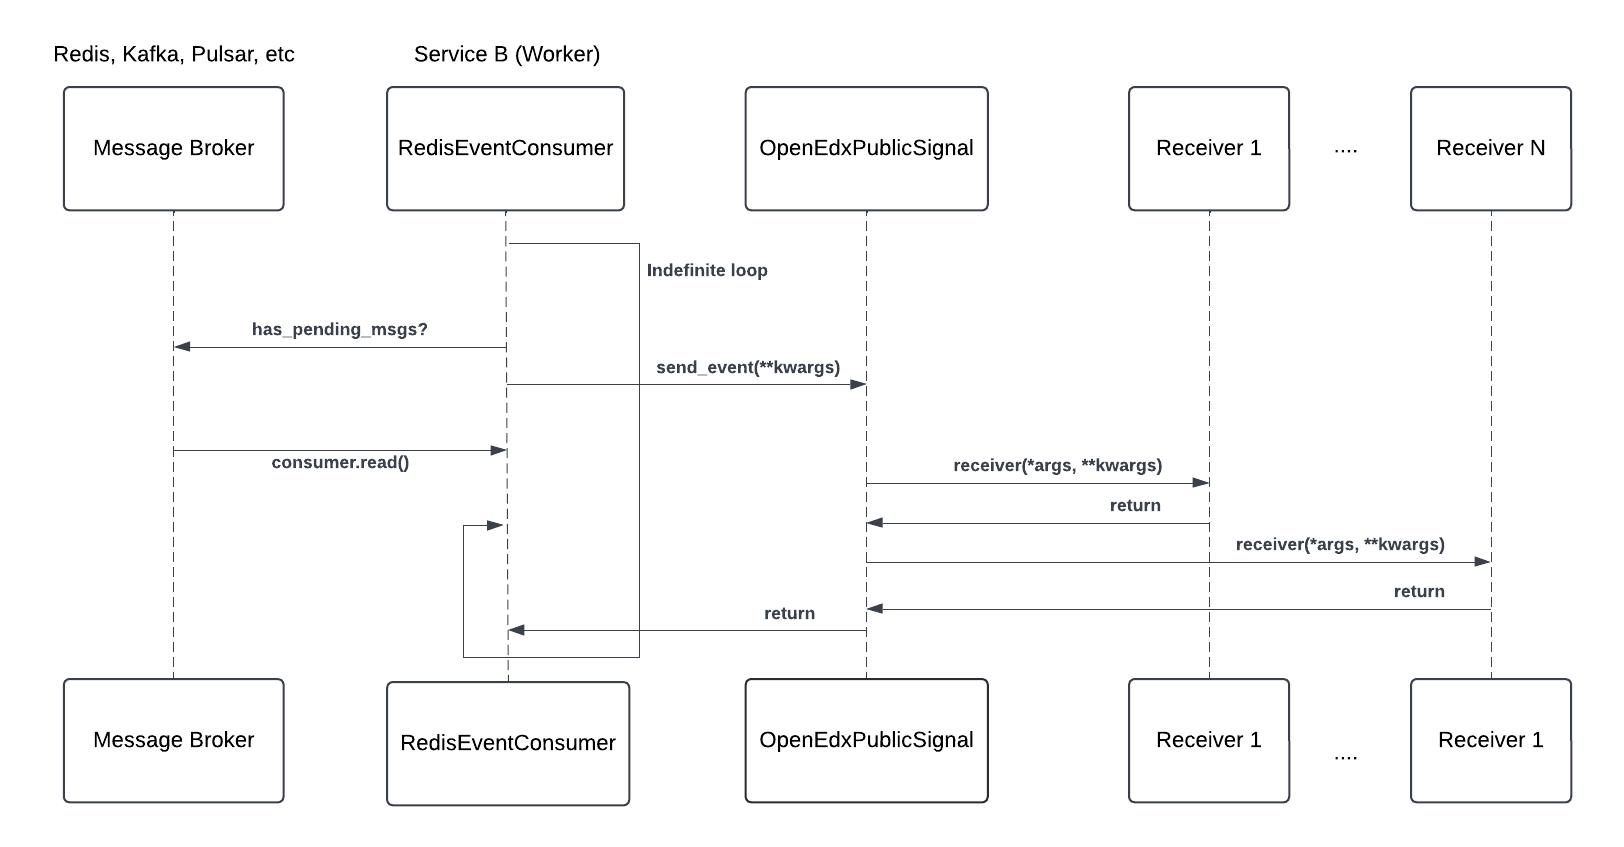
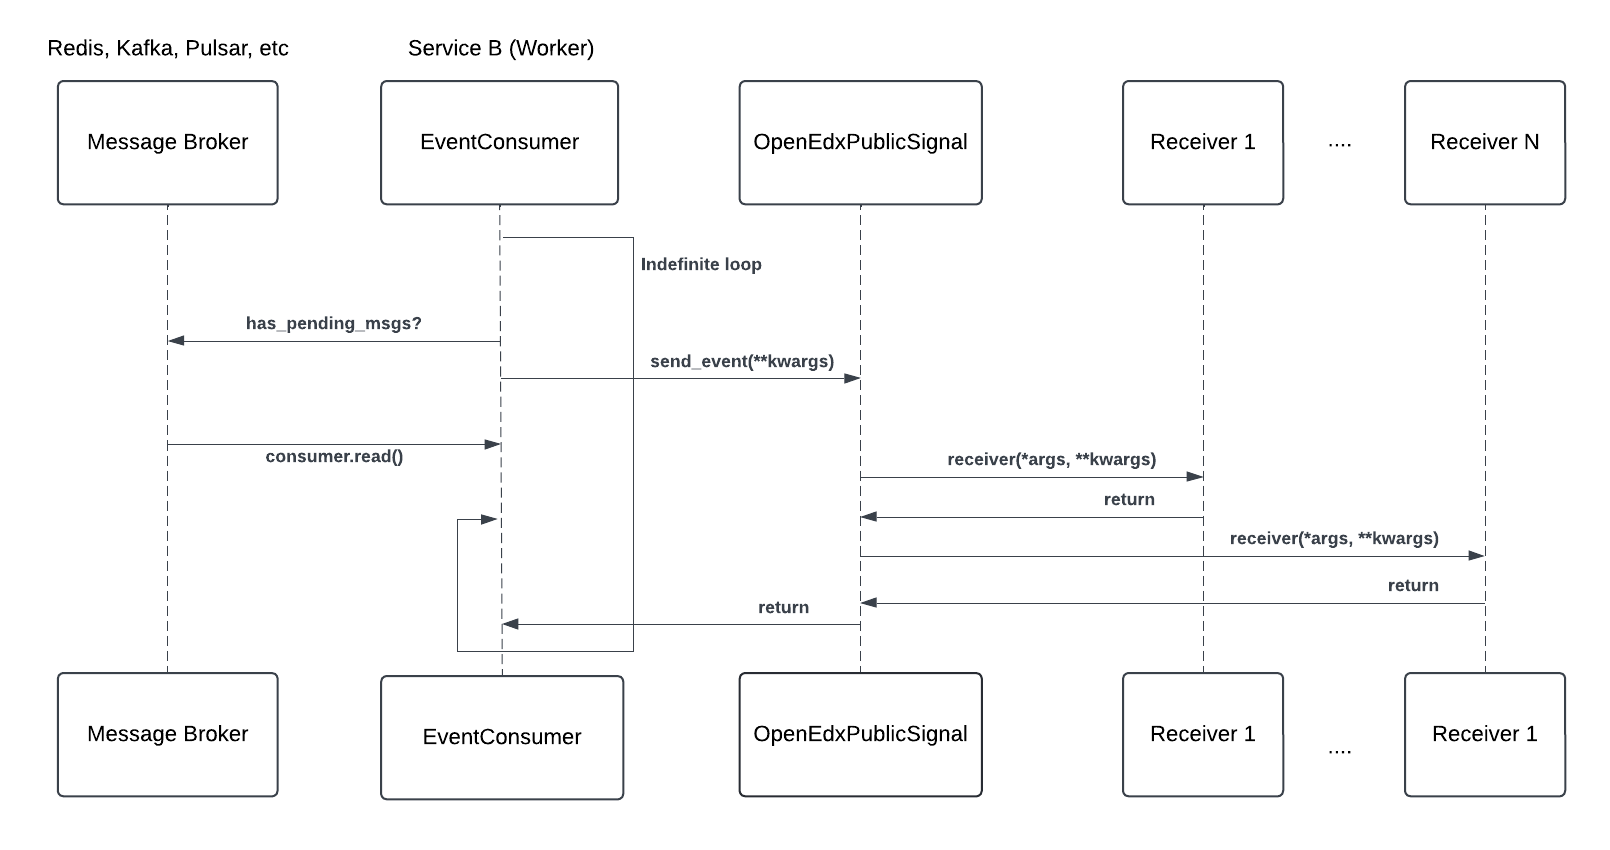
refactor: reference terms in glossary

diff --git a/docs/concepts/event-bus.rst b/docs/concepts/event-bus.rst
@@ -4,12 +4,12 @@ Open edX Event Bus
 Overview
 --------
 
-The suggested strategy for cross-service communication in the Open edX ecosystem is through an event-based architecture implemented via the event bus. This functionality used for asynchronous communication between services is built on top of sending Open edX Events (Open edX-specific Django signals) within a service.
+The suggested strategy for cross-service communication in the Open edX ecosystem is through an event-based architecture implemented via the :term:`Event Bus`. This functionality used for asynchronous communication between services is built on top of sending Open edX Events (Open edX-specific Django signals) within a service.
 
 What is the Open edX Event Bus?
 -------------------------------
 
-The event bus implements an event-driven architecture that enables asynchronous communication between services using the `publish/subscribe messaging pattern`_ (pub/sub). In the Open edX ecosystem, the event bus is used to broadcast Open edX Events to multiple services, allowing them to react to changes or actions in the system. The event bus is a key component of the Open edX architecture, enabling services to communicate without direct dependencies on each other.
+The :term:`Event Bus` implements an event-driven architecture that enables asynchronous communication between services using the `publish/subscribe messaging pattern`_ (pub/sub). In the Open edX ecosystem, the event bus is used to broadcast Open edX Events to multiple services, allowing them to react to changes or actions in the system. The event bus is a key component of the Open edX architecture, enabling services to communicate without direct dependencies on each other.
 
 .. image:: ../_images/event-bus-overview.png
    :alt: Open edX Event Bus Overview
@@ -18,7 +18,7 @@ The event bus implements an event-driven architecture that enables asynchronous 
 Why use the Open edX Event Bus?
 -------------------------------
 
-The event bus can help us achieve loose coupling between services, replacing blocking requests between services and large sync jobs, leading to a faster, more reliable, and more extensible system. See event messaging architectural goals highlighted in :doc:`openedx-proposals:architectural-decisions/oep-0041-arch-async-server-event-messaging` to read more about its benefits. Here's a brief summary of some key points:
+The :term:`Event Bus` can help us achieve loose coupling between services, replacing blocking requests between services and large sync jobs, leading to a faster, more reliable, and more extensible system. See event messaging architectural goals highlighted in :doc:`openedx-proposals:architectural-decisions/oep-0041-arch-async-server-event-messaging` to read more about its benefits. Here's a brief summary of some key points:
 
 * **Eliminate Blocking, Synchronous Requests**: reduce site outages when services become overloaded with requests by replacing synchronous calls with asynchronous communication.
 * **Eliminate Expensive, Delayed, Batch Synchronization**: replace expensive batch processing with near real-time data updates.
@@ -27,11 +27,11 @@ The event bus can help us achieve loose coupling between services, replacing blo
 How Does the Open edX Event Bus Work?
 -------------------------------------
 
-The Open edX platform uses the ``OpenEdxPublicSignals`` (Open edX-specific Django Signals) to send events within a service. The event bus extends these signals, allowing them to be broadcast and handled across multiple services. That's how Open edX Events are used for internal and external communication. For more details on how these Open edX-specific Django Signals are used by the event bus, refer to the :doc:`../decisions/0004-external-event-bus-and-django-signal-events` Architectural Decision Record (ADR).
+The Open edX platform uses the ``OpenEdxPublicSignals`` (Open edX-specific Django Signals) to send events within a service. The event bus extends these signals, allowing them to be broadcasted and handled across multiple services. That's how Open edX Events are used for internal and external communication. For more details on how these Open edX-specific Django Signals are used by the event bus, refer to the :doc:`../decisions/0004-external-event-bus-and-django-signal-events` Architectural Decision Record (ADR).
 
 Open edX Events provides an abstract implementation of the `publish/subscribe messaging pattern`_ (pub/sub) which is the chosen pattern for the event bus implementation as explained in :doc:`openedx-proposals:architectural-decisions/oep-0052-arch-event-bus-architecture`. It implements two abstract classes, `EventProducer`_ and `EventConsumer`_ which allow concrete implementations of the event bus based on different message brokers, such as Pulsar.
 
-This abstraction allows for developers to implement their own concrete implementations of the event bus in their own plugins, there are currently two implementations of the event bus, Redis (`event-bus-redis`_) and Kafka (`event-bus-kafka`_). Redis streams is a data structure that acts like an append-only log, and Kafka is a distributed event streaming application. Both implementations handle event production and consumption with technology specific methods.
+This abstraction allows for developers to implement their own concrete implementations of the event bus in their own plugins. There are currently two implementations of the event bus, Redis (`event-bus-redis`_) and Kafka (`event-bus-kafka`_). Redis streams is a data structure that acts like an append-only log, and Kafka is a distributed event streaming application. Both implementations handle event production and consumption with technology specific methods.
 
 Architectural Diagram
 *********************
@@ -44,10 +44,10 @@ Components
 * **Service A (Producer)**: The service that emits the event. Developers may have emitted this event in a key section of the application logic, signaling that a specific action has occurred.
 * **Service B (Consumer)**: The service that listens for the event and executes custom logic in response.
 * **OpenEdxPublicSignal**: The class that implements all methods used to manage sending the event. This class inherits from Django's Signals class and adds Open edX-specific metadata and behaviors.
-* **Event Producer**: The component that sends events to the event bus. The producer serializes the event data and enriches it with relevant metadata for the consumer.
-* **Event Consumer**: The component that receives events from the event bus. The consumer deserializes the message and re-emits it as an event with the data that was transmitted.
-* **Message Broker**: The technology that manages the message queue and ensures that messages are delivered to the correct consumers. The message broker is responsible for storing and delivering messages between the producer and consumer.
-* **Event Bus Plugin**: The concrete implementation of the event bus based on a specific message broker, such as Pulsar. The plugin handles event production and consumption with technology-specific methods.
+* **Event Producer**: The class in the :term:`Producer` service that sends events to the event bus. The producer serializes the event data and enriches it with relevant metadata for the consumer.
+* **Event Consumer**: The class in the :term:`Consumer` service that receives events from the event bus. The consumer deserializes the :term:`message <Message>` and re-emits it as an event with the data that was transmitted.
+* **Message Broker**: The :term:`message broker <Message Broker>` is responsible for storing and delivering messages between the producer and consumer.
+* **Event Bus Plugin**: The concrete implementation of the event bus (EventProducer and EventConsumer) based on a specific :term:`message broker <Message Broker>`, such as Pulsar. The plugin handles event production and consumption with technology-specific methods.
 
 Workflow
 ~~~~~~~~
@@ -61,7 +61,7 @@ Workflow
 1. When the event is sent, a registered event receiver `general_signal_handler`_ is called to send the event to the event bus. This receiver is registered by the Django Signal mechanism when the ``openedx-events`` app is installed, and it listens for all Open edX Events.
 2. The receiver checks the ``EVENT_BUS_PRODUCER_CONFIG`` to look for the ``event_type`` of the event that was sent.
 3. If the event type is found and it's enabled for publishing in the configuration, the receiver obtains the configured producer class (``EventProducer``) from the concrete event bus implementation. For example, the producer class for Redis or Kafka implemented in their respective plugins.
-4. The ``EventProducer`` serializes the event data and enriches it with relevant metadata for the consumer.
+4. The ``EventProducer`` serializes the event data and enriches it with relevant metadata, and then transforms it into a message that can be transmitted.
 5. The producer uses its technology-specific ``send`` method to publish a message to the configured broker (e.g., Redis or Kafka).
 
 .. image:: ../_images/event-bus-workflow-service-b.png
@@ -70,7 +70,7 @@ Workflow
 
 **From Service B (Consumer)**
 
-1. A worker process in Service B runs indefinitely, checking the broker for new messages.
+1. A :term:`Worker` process in Service B runs indefinitely, checking the broker for new messages.
 2. When a new message is found, the ``EventConsumer`` deserializes the message and re-emits it as an event with the data that was transmitted.
 3. The event sending and processing workflow repeats in Service B.
 
@@ -79,9 +79,9 @@ This approach of producing events via settings with the generic handler was chos
 How is the Open edX Event Bus Used?
 -----------------------------------
 
-The event bus is used to broadcast Open edX Events to multiple services, allowing them to react to changes or actions in the system. The event bus is a key component of the Open edX architecture, enabling services to communicate without direct dependencies on each other.
+The event bus is used to broadcast Open edX Events to multiple services, allowing them to react to changes or actions in the system.
 
-We encourage you to review the :doc:`../reference/real-life-use-cases` page for examples of how the event bus can be used in the Open edX ecosystem. Also, see the :doc:`../how-tos/using-the-event-bus` guide to get start sending events to the event bus.
+We encourage you to review the :doc:`../reference/real-life-use-cases` page for examples of how the event bus is used in the Open edX ecosystem by the community. Also, see the :doc:`../how-tos/using-the-event-bus` guide to get start sending events to the event bus.
 
 .. _general_signal_handler: https://github.com/openedx/openedx-events/blob/main/openedx_events/apps.py#L16-L44
 .. _EventProducer: https://github.com/openedx/openedx-events/blob/main/openedx_events/event_bus/__init__.py#L71-L91

diff --git a/docs/how-tos/using-the-event-bus.rst b/docs/how-tos/using-the-event-bus.rst
@@ -1,7 +1,7 @@
 Using the Open edX Event Bus
 ============================
 
-After creating a new Open edX Event, you might need to send it across services instead of just within the same process. For this kind of use-cases, you might want to use the Open edX Event Bus. Here :doc:`../concepts/event-bus` you can find useful information about the event bus.
+After creating a new Open edX Event, you might need to send it across services instead of just within the same process. For this kind of use-cases, you might want to use the Open edX Event Bus. Here :doc:`../concepts/event-bus`, you can find useful information to start getting familiar with the Open edX Event Bus.
 
 The Open edX Event Bus is a key component of the Open edX architecture, enabling services to communicate without direct dependencies on each other. This guide provides an overview of how to use the event bus to broadcast Open edX Events to multiple services, allowing them to react to changes or actions in the system.
 
@@ -24,24 +24,24 @@ Configure the Event Bus
 
 In :doc:`../reference/event-bus-configurations`, you can find the available configurations for the event bus that are used to set up the event bus in the Open edX platform.
 
-In both the producing and consuming services, you need to configure the event bus. This includes setting up the event types, topics, and other configurations for the event bus. In this step, you should configure the producer and consumer classes for the event bus implementation you are using:
+In both the producing and consuming services, you need to configure the event bus. This includes setting up the :term:`event types <Event Type>`, :term:`topics <Topic>`, and other configurations for the :term:`Event Bus` to work with. In this step, you should configure the producer and consumer classes for the event bus implementation you are using:
 
-- In the producing service, configure the producer class by setting the ``EVENT_BUS_PRODUCER`` setting. E.g., ``edx_event_bus_redis.create_producer``.
-- In the consuming service, configure the consumer class by setting the ``EVENT_BUS_CONSUMER`` setting. E.g., ``edx_event_bus_redis.RedisEventConsumer``.
+- In the :term:`producing <Producer>` service, configure the producer class by setting the ``EVENT_BUS_PRODUCER`` setting. E.g., ``edx_event_bus_redis.create_producer``.
+- In the :term:`consuming <Consumer>` service, configure the consumer class by setting the ``EVENT_BUS_CONSUMER`` setting. E.g., ``edx_event_bus_redis.RedisEventConsumer``.
 
 By configuring these settings, you are telling Open edX Events which concrete implementation to use for producing and consuming events.
 
 Produce the Event
 ~~~~~~~~~~~~~~~~~
 
-In the producing/host application, include ``openedx_events`` in ``INSTALLED_APPS`` settings and add ``EVENT_BUS_PRODUCER_CONFIG`` setting. This setting is a dictionary of event_types to dictionaries for topic-related configuration. Each topic configuration dictionary uses the topic as a key and contains:
+In the producing/host application, include ``openedx_events`` in ``INSTALLED_APPS`` settings if necessary and add ``EVENT_BUS_PRODUCER_CONFIG`` setting. This setting is a dictionary of :term:`event types <Event Type>` to dictionaries for :term:`Topic` related configuration. Each :term:`Topic` configuration dictionary uses the topic as a key and contains:
 
 - A flag called ``enabled`` denoting whether the event will be published.
 - The ``event_key_field`` which is a period-delimited string path to event data field to use as event key.
 
 .. note:: The topic names should not include environment prefix as it will be dynamically added based on ``EVENT_BUS_TOPIC_PREFIX`` setting.
 
-Here's an example of the producer configuration which will publish events for XBlock published and deleted events to the specified topics:
+Here's an example of the producer configuration which will publish events for XBlock published and deleted events to the specified :term:`Topic`:
 
 .. code-block:: python
 
@@ -55,12 +55,12 @@ Here's an example of the producer configuration which will publish events for XB
         },
    }
 
-The ``EVENT_BUS_PRODUCER_CONFIG`` is read by ``openedx_events`` and a handler is attached which does the leg work of reading the configuration again and pushing to appropriate handlers.
+The ``EVENT_BUS_PRODUCER_CONFIG`` is read by ``openedx_events`` and a handler (`general_signal_handler`_) is attached which does the leg work of reading the configuration again and pushing to appropriate handlers.
 
 Consume the Event
 ~~~~~~~~~~~~~~~~~
 
-In the consuming service, include ``openedx_events`` in ``INSTALLED_APPS`` settings and add ``EVENT_BUS_CONSUMER_CONFIG`` setting. Then, you should implement a receiver for the event type you are interested in. In this example, we are interested in the XBlock deleted event:
+In the consuming service, include ``openedx_events`` in ``INSTALLED_APPS`` settings if necessary and add ``EVENT_BUS_CONSUMER_CONFIG`` setting. Then, you should implement a receiver for the event type you are interested in. In this example, we are interested in the XBlock deleted event:
 
 .. code-block:: python
 
@@ -72,7 +72,7 @@ In the consuming service, include ``openedx_events`` in ``INSTALLED_APPS`` setti
 Run the Consumer
 ~~~~~~~~~~~~~~~~
 
-To consume events, Open edX Events provides a management command called `consume_events`_ which can be called from the command line, how to run this command will depend on your deployment strategy. This command will start a process that listens to the message broker for new messages, processes them and emits the event.
+To consume events, Open edX Events provides a management command called `consume_events`_ which can be called from the command line, how to run this command will depend on your deployment strategy. This command will start a process that listens to the message broker for new messages, processes them and emits the event. Here is an example using of a `consumer using Tutor hosted in Kubernetes`_.
 
 You can find more a concrete example of how to produce and consume events in the `event-bus-redis`_ documentation.
 
@@ -80,3 +80,5 @@ You can find more a concrete example of how to produce and consume events in the
 .. _event-bus-redis: https://github.com/openedx/event-bus-redis
 .. _run the consumer locally without tutor: https://github.com/openedx/event-bus-redis/?tab=readme-ov-file#testing-locally
 .. _run the consumer locally with tutor: https://github.com/openedx/event-bus-redis/blob/main/docs/tutor_installation.rst#setup-example-with-openedx-course-discovery-and-tutor
+.. _general_signal_handler: https://github.com/openedx/openedx-events/blob/main/openedx_events/apps.py#L16-L44
+.. _consumer using Tutor hosted in Kubernetes: https://github.com/openedx/tutor-contrib-aspects/blob/master/tutoraspects/patches/k8s-deployments#L535-L588
